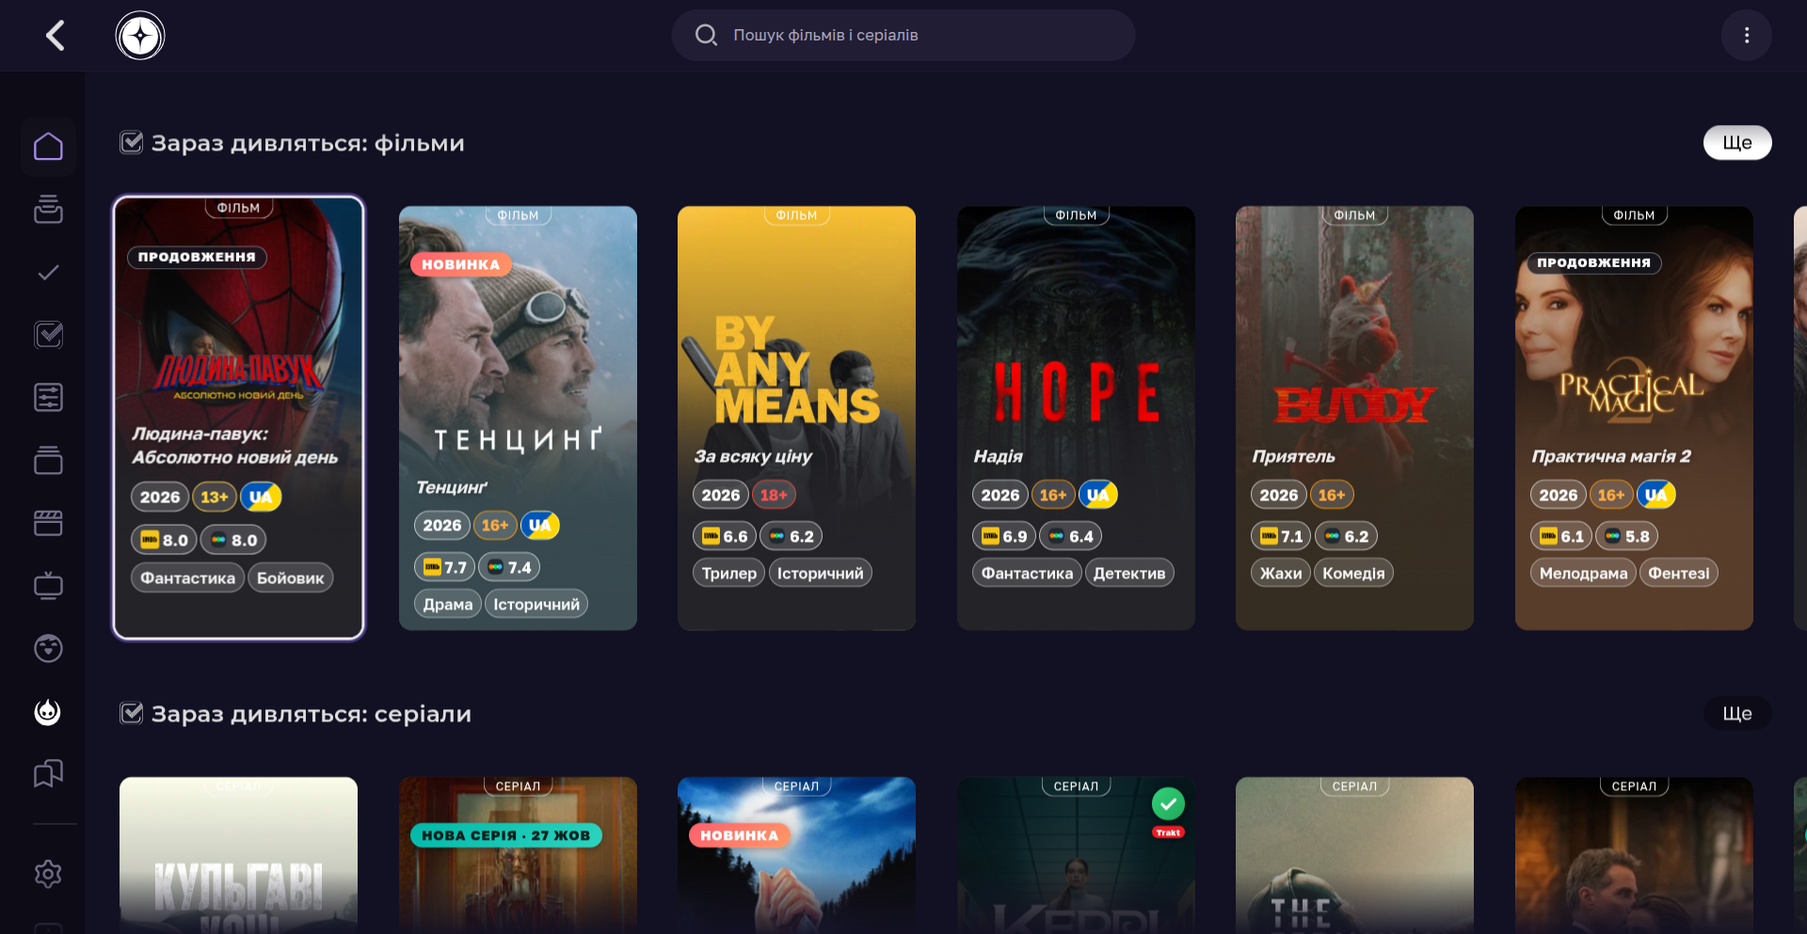
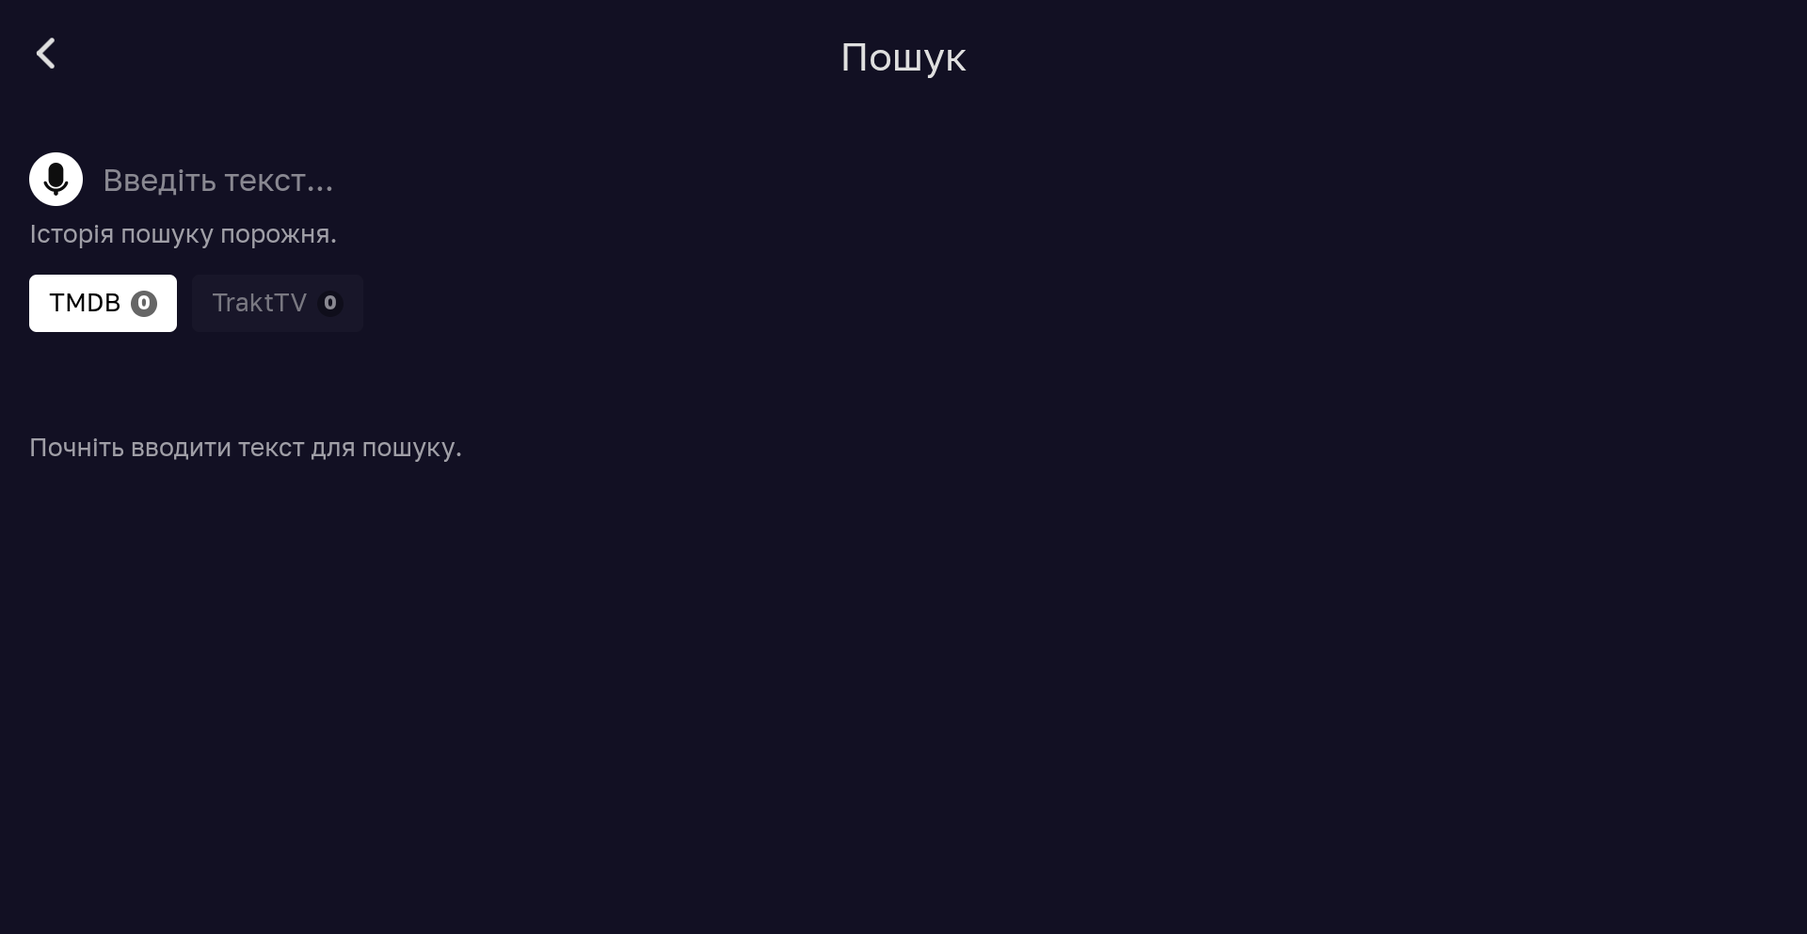
style: unify design tokens and native auxiliary screens

diff --git a/ui/stremio-hybrid.js b/ui/stremio-hybrid.js
@@ -4,36 +4,36 @@
     if (window.StremioHybrid) return;
     var style, ready = false, destroyed = false, waiting = false, watching = false, moreButton = null, menuOpen = false, searchNode = null, searchReturn = false, settingsRail = null, settingsFrame = 0, settingsParameter = null, settingsCategory = 'interface', settingsLeftConsumed = false, searchSources = null, searchRoots = [];
     var css = `
-body.stremio-hybrid { --sh-bg:#121023; --sh-panel:#211d35; --sh-accent:#9775fa; --sh-muted:#aba7bd; --sh-rail:#0c0b16; --sh-text:#f0eef8; --sh-border:#ffffff16; --sh-radius:.7em; --sh-pill:2em; --sh-gap:1.1em; --sh-speed:160ms; background:#121023 !important; color:#f0eef8; }
+body.stremio-hybrid { --sh-bg:#121023; --sh-panel:#211d35; --sh-accent:#9775fa; --sh-muted:#aba7bd; --sh-rail:#0c0b16; --sh-text:#f0eef8; --sh-border:#ffffff16; --sh-radius:.7em; --sh-pill:2em; --sh-gap:1.1em; --sh-speed:160ms; --sh-focus:#7960c9; --sh-focus-soft:#3e315b; --sh-header:#151127; --sh-panel-raised:#29233e; --sh-accent-soft:#b79bff; --sh-focus-text:#e9e0ff; --sh-focus-ink:#201536; --sh-inactive:#726d86; --sh-secondary:#d0cadf; --sh-inset:1.8em; --sh-ease:ease-out; background:#121023 !important; color:#f0eef8; }
 body.stremio-hybrid .background { opacity:.12 !important; }
-body.stremio-hybrid .head { background:#151127 !important; border-bottom:1px solid #ffffff09; }
-body.stremio-hybrid .head__body { padding-left:1.8em; padding-right:1.8em; }
+body.stremio-hybrid .head { background:var(--sh-header) !important; border-bottom:1px solid #ffffff09; }
+body.stremio-hybrid .head__body { padding-left:1.8em; padding-right:var(--sh-inset); }
 body.stremio-hybrid .head__action { border-radius:50%; }
-body.stremio-hybrid .head__action.focus { background:#7960c9 !important; color:white !important; }
-body.stremio-hybrid .wrap { background:#121023; }
+body.stremio-hybrid .head__action.focus { background:var(--sh-focus) !important; color:white !important; }
+body.stremio-hybrid .wrap { background:var(--sh-bg); }
 body.stremio-hybrid .wrap__left { background:var(--sh-rail) !important; visibility:visible !important; }
-body.stremio-hybrid .menu__item { margin:.15em .45em; border-radius:.7em !important; min-height:2.8em; color:#726d86; }
-body.stremio-hybrid .menu__item.focus, body.stremio-hybrid .menu__item.traverse { background:#29233e !important; color:#b79bff !important; }
+body.stremio-hybrid .menu__item { margin:.15em .45em; border-radius:var(--sh-radius) !important; min-height:2.8em; color:var(--sh-inactive); }
+body.stremio-hybrid .menu__item.focus, body.stremio-hybrid .menu__item.traverse { background:var(--sh-panel-raised) !important; color:var(--sh-accent-soft) !important; }
 body.stremio-hybrid .menu__ico { opacity:1; }
 body.stremio-hybrid .items-line { padding-bottom:2.4em; }
 body.stremio-hybrid .items-line__head { padding:0 1.8em 1em; }
 body.stremio-hybrid .items-line__title { font-size:1.2em; font-weight:500; letter-spacing:.01em; }
-body.stremio-hybrid .items-line .scroll__content { padding-left:1.8em; padding-right:1.8em; }
-body.stremio-hybrid .items-line:not(.vinyl-line) .scroll__body { gap:1.1em; }
-body.stremio-hybrid .card { transition:transform 160ms ease-out !important; backface-visibility:visible !important; transform:none; }
+body.stremio-hybrid .items-line .scroll__content { padding-left:1.8em; padding-right:var(--sh-inset); }
+body.stremio-hybrid .items-line:not(.vinyl-line) .scroll__body { gap:var(--sh-gap); }
+body.stremio-hybrid .card { transition:transform var(--sh-speed) var(--sh-ease) !important; backface-visibility:visible !important; transform:none; }
 body.stremio-hybrid .ydesign-card, body.stremio-hybrid .ydesign-card.focus { animation:none !important; }
 body.stremio-hybrid .card.focus { transform:scale(1.035) !important; z-index:20; }
-body.stremio-hybrid .card .card__view { border-radius:.65em !important; transition:none !important; }
-body.stremio-hybrid .card.focus .card__view { box-shadow:0 0 0 .14em #f0eef8,0 0 0 .27em #9775fa66 !important; }
+body.stremio-hybrid .card .card__view { border-radius:var(--sh-radius) !important; transition:none !important; }
+body.stremio-hybrid .card.focus .card__view { box-shadow:0 0 0 .14em var(--sh-text),0 0 0 .27em var(--sh-accent)66 !important; }
 body.stremio-hybrid .ydesign-card.focus::after, body.stremio-hybrid .ydesign-card .ydesign-content-layer::after { display:none !important; }
 body.stremio-hybrid .ydesign-card .card__view::before { animation:none !important; }
 body.stremio-hybrid .ydesign-badge, body.stremio-hybrid .ydesign-genre-badge, body.stremio-hybrid .ydesign-rating, body.stremio-hybrid .ydesign-series-pill, body.stremio-hybrid .ydesign-card-notch { backdrop-filter:none !important; -webkit-backdrop-filter:none !important; }
-body.stremio-hybrid .ydesign-content-layer, body.stremio-hybrid .ydesign-desc-under { transition:opacity 160ms ease-out !important; }
-body.stremio-hybrid .selectbox__content, body.stremio-hybrid .settings__content, body.stremio-hybrid .modal__content { background:#211d35 !important; border-radius:1em; backdrop-filter:none !important; -webkit-backdrop-filter:none !important; }
-body.stremio-hybrid .selectbox-item { border-radius:.65em; }
+body.stremio-hybrid .ydesign-content-layer, body.stremio-hybrid .ydesign-desc-under { transition:opacity var(--sh-speed) var(--sh-ease) !important; }
+body.stremio-hybrid .selectbox__content, body.stremio-hybrid .settings__content, body.stremio-hybrid .modal__content { background:var(--sh-panel) !important; border-radius:1em; backdrop-filter:none !important; -webkit-backdrop-filter:none !important; }
+body.stremio-hybrid .selectbox-item { border-radius:var(--sh-radius); }
 body.stremio-hybrid .mapping--grid { padding:.6em .8em; }
 body.stremio-hybrid .mapping--grid .card { padding:0 .65em 1.8em; }
-body.stremio-hybrid .selectbox-item.focus, body.stremio-hybrid .settings-param.focus, body.stremio-hybrid .settings-folder.focus { background:#7960c9 !important; color:white !important; border-radius:.65em; }
+body.stremio-hybrid .selectbox-item.focus, body.stremio-hybrid .settings-param.focus, body.stremio-hybrid .settings-folder.focus { background:var(--sh-focus) !important; color:white !important; border-radius:var(--sh-radius); }
 /* Native search and native action nodes are retained. Only known secondary actions move into Select. */
 body.stremio-hybrid .head__body { gap:1em; }
 body.stremio-hybrid .head__title { min-width:0; overflow:hidden; text-overflow:ellipsis; white-space:nowrap; font-size:1em; opacity:.7; max-width:26vw; }
@@ -44,7 +44,7 @@ body.stremio-hybrid .open--search { width:clamp(12em,29vw,24em) !important; heig
 body.stremio-hybrid .open--search { position:absolute; left:50%; transform:translateX(-50%) !important; }
 body.stremio-hybrid .open--search svg { width:1.2em; height:1.2em; flex-shrink:0; opacity:.75; }
 body.stremio-hybrid .open--search::after { content:'Пошук фільмів і серіалів'; font-size:.8em; color:var(--sh-muted); white-space:nowrap; }
-body.stremio-hybrid .open--search.focus { box-shadow:0 0 0 .1em #cab7ff; }
+body.stremio-hybrid .open--search.focus { box-shadow:0 0 0 .1em var(--sh-accent-soft); }
 body.stremio-hybrid .open--search.focus::after { color:white; }
 body.stremio-hybrid .sh-head-more { width:2.65em; height:2.65em; margin:0 !important; background:var(--sh-panel); display:flex; justify-content:center; align-items:center; }
 body.stremio-hybrid .sh-head-more svg { width:1.1em; height:1.1em; }
@@ -59,65 +59,65 @@ body.stremio-hybrid .main-search .simple-keyboard-input.focus { border-color:var
 body.stremio-hybrid .main-search .search__sources { gap:.7em; margin:1.2em 0; }
 body.stremio-hybrid .main-search .search-source { border-radius:var(--sh-pill); background:var(--sh-panel); color:var(--sh-muted); padding:.8em 1.2em; }
 body.stremio-hybrid .main-search .search-source.active { color:var(--sh-text); box-shadow:inset 0 -.12em var(--sh-accent); }
-body.stremio-hybrid .main-search .search-source.focus { background:#3e315b; color:white; }
+body.stremio-hybrid .main-search .search-source.focus { background:var(--sh-focus-soft); color:white; }
 body.stremio-hybrid .main-search .search-source__count { background:#ffffff0d; border-radius:var(--sh-pill); }
 body.stremio-hybrid .search-empty, body.stremio-hybrid .search-looking, body.stremio-hybrid .empty { color:var(--sh-muted); }
 body.stremio-hybrid .main-search .items-line__title { font-size:1.15em; }
 body.stremio-hybrid .main-search .card.ydesign-vertical { width:13.2vw !important; }
 body.stremio-hybrid .sh-search-grid { width:13.2vw; min-height:12em; flex:0 0 auto; display:flex; align-items:center; justify-content:center; padding:1em; text-align:center; background:var(--sh-panel); border:1px solid var(--sh-border); border-radius:var(--sh-radius); color:var(--sh-muted); }
-body.stremio-hybrid .sh-search-grid.focus { color:white; background:#3e315b; box-shadow:0 0 0 .12em var(--sh-accent); }
+body.stremio-hybrid .sh-search-grid.focus { color:white; background:var(--sh-focus-soft); box-shadow:0 0 0 .12em var(--sh-accent); }
 body.stremio-hybrid .filter__item, body.stremio-hybrid .filter--filter, body.stremio-hybrid .filter--sort { border-radius:var(--sh-pill); background:var(--sh-panel); }
-body.stremio-hybrid .filter__item.focus, body.stremio-hybrid .filter--filter.focus, body.stremio-hybrid .filter--sort.focus { background:#3e315b; box-shadow:0 0 0 .1em var(--sh-accent); }
+body.stremio-hybrid .filter__item.focus, body.stremio-hybrid .filter--filter.focus, body.stremio-hybrid .filter--sort.focus { background:var(--sh-focus-soft); box-shadow:0 0 0 .1em var(--sh-accent); }
 /* A full Settings screen; the right pane remains Lampa's original component. */
 body.stremio-hybrid.settings--open .settings { position:fixed; inset:0; width:100vw; height:100vh; }
 body.stremio-hybrid.settings--open .settings__layer { display:none; }
-body.stremio-hybrid.settings--open .settings__content { width:100% !important; max-width:none; height:100vh !important; background:var(--sh-bg) !important; pointer-events:auto; display:grid; grid-template-columns:minmax(13em,23%) minmax(0,1fr); grid-template-rows:auto minmax(0,1fr); gap:1em 1.8em; padding:1.8em; box-sizing:border-box; border-radius:0; }
+body.stremio-hybrid.settings--open .settings__content { width:100% !important; max-width:none; height:100vh !important; background:var(--sh-bg) !important; pointer-events:auto; display:grid; grid-template-columns:minmax(13em,23%) minmax(0,1fr); grid-template-rows:auto minmax(0,1fr); gap:1em 1.8em; padding:var(--sh-inset); box-sizing:border-box; border-radius:0; }
 body.stremio-hybrid.settings--open .settings__head { grid-column:1 / -1; padding:0 0 .8em; }
 body.stremio-hybrid.settings--open .settings__body { grid-column:2; grid-row:2; min-height:0; min-width:0; overflow:hidden; background:var(--sh-panel); padding:1em; border-radius:var(--sh-radius); }
 body.stremio-hybrid.settings--open .settings__body > .scroll { height:100% !important; max-height:100% !important; }
 body.stremio-hybrid .sh-settings-rail { grid-column:1; grid-row:2; min-height:0; overflow-y:auto; overscroll-behavior:contain; padding:.2em .5em .8em .1em; }
 body.stremio-hybrid .sh-settings-category { color:var(--sh-muted); padding:.85em 1em; margin-bottom:.3em; border-radius:var(--sh-pill); font-size:.95em; cursor:pointer; }
 body.stremio-hybrid .sh-settings-category[aria-current="page"] { background:#ffffff09; color:var(--sh-text); }
-body.stremio-hybrid .sh-settings-category.focus { color:white; background:#3e315b; box-shadow:inset .18em 0 var(--sh-accent); }
+body.stremio-hybrid .sh-settings-category.focus { color:white; background:var(--sh-focus-soft); box-shadow:inset .18em 0 var(--sh-accent); }
 body.stremio-hybrid .settings-param { padding:1em; margin-bottom:.25em; }
 body.stremio-hybrid .settings-param__name { font-size:1em; }
 body.stremio-hybrid .settings-param__value { font-size:.85em; }
 /* Keep Cardify's composition and provider actions; improve readable hierarchy. */
 /* Reveal the existing native poster and recompose Cardify without replacing its DOM. */
 body.stremio-hybrid .cardify .full-start-new__body { height:auto !important; min-height:36em; padding-top:2em; align-items:flex-start !important; }
-body.stremio-hybrid .cardify .full-start-new__left { display:block !important; width:12vw; flex:0 0 12vw; max-width:12em; margin-right:1.8em; align-self:flex-start; }
+body.stremio-hybrid .cardify .full-start-new__left { display:block !important; width:12vw; flex:0 0 12vw; max-width:12em; margin-right:var(--sh-inset); align-self:flex-start; }
 body.stremio-hybrid .cardify .full-start-new__poster { border-radius:var(--sh-radius); box-shadow:0 .5em 1.5em #0005; overflow:hidden; }
 body.stremio-hybrid .cardify .full-start-new__right { flex:1; min-width:0; width:auto; align-items:flex-start !important; }
 body.stremio-hybrid .cardify .cardify__left { max-width:58%; padding-right:0; }
 body.stremio-hybrid .cardify .full-start-new__title { font-size:2.1em !important; margin-top:0 !important; }
 body.stremio-hybrid .cardify .custom-ghost-main { top:2em !important; }
-body.stremio-hybrid .cardify .cardify__right-box { position:absolute; bottom:1em; right:1.8em; }
+body.stremio-hybrid .cardify .cardify__right-box { position:absolute; bottom:1em; right:var(--sh-inset); }
 body.stremio-hybrid .full-episode { border-radius:var(--sh-radius); background:var(--sh-panel); padding:.7em; }
 body.stremio-hybrid .full-episode__img { border-radius:.45em; }
 body.stremio-hybrid .full-episode.focus { box-shadow:0 0 0 .12em var(--sh-accent); }
 body.stremio-hybrid .full-start__background { opacity:.48 !important; filter:none !important; }
-body.stremio-hybrid .cardify-effects-overlay { width:100% !important; background:linear-gradient(90deg,rgba(18,16,35,.76),rgba(18,16,35,.16)) !important; transition:opacity 160ms ease-out !important; }
+body.stremio-hybrid .cardify-effects-overlay { width:100% !important; background:linear-gradient(90deg,rgba(18,16,35,.76),rgba(18,16,35,.16)) !important; transition:opacity var(--sh-speed) var(--sh-ease) !important; }
 body.stremio-hybrid .full-start-new__title { font-size:2.4em !important; line-height:1.16 !important; font-weight:600; max-width:26em; white-space:normal !important; display:block !important; overflow:visible !important; text-overflow:clip; overflow-wrap:break-word; -webkit-line-clamp:unset !important; margin:.3em 0 .5em !important; }
-body.stremio-hybrid .full-start-new__head { color:#d0cadf; font-size:.95em; line-height:1.4; }
+body.stremio-hybrid .full-start-new__head { color:var(--sh-secondary); font-size:.95em; line-height:1.4; }
 body.stremio-hybrid .ifx-original-title { opacity:.7; font-weight:400; }
 body.stremio-hybrid .cardify__left { min-width:0; max-width:68%; padding-right:1.2em; }
 body.stremio-hybrid .full-start-new__right { gap:1em; }
 body.stremio-hybrid .full-start-new__rate-line { gap:.6em; }
-body.stremio-hybrid .full-start__button { border-radius:2em !important; background:#29233e; border:1px solid #ffffff16; min-height:2.8em; animation:none !important; opacity:1 !important; transition:transform 160ms ease-out,opacity 160ms ease-out !important; backdrop-filter:none !important; -webkit-backdrop-filter:none !important; }
-body.stremio-hybrid .full-start__button.focus { background:#e9e0ff !important; color:#201536 !important; box-shadow:0 0 0 .13em #9775fa !important; transform:translateY(-.08em); }
+body.stremio-hybrid .full-start__button { border-radius:var(--sh-pill) !important; background:var(--sh-panel-raised); border:1px solid var(--sh-border); min-height:2.8em; animation:none !important; opacity:1 !important; transition:transform var(--sh-speed) var(--sh-ease),opacity var(--sh-speed) var(--sh-ease) !important; backdrop-filter:none !important; -webkit-backdrop-filter:none !important; }
+body.stremio-hybrid .full-start__button.focus { background:var(--sh-focus-text) !important; color:var(--sh-focus-ink) !important; box-shadow:0 0 0 .13em var(--sh-accent) !important; transform:translateY(-.08em); }
 body.stremio-hybrid .custom-ghost-main { width:31% !important; padding:1.1em !important; background:rgba(24,21,43,.94); border:1px solid #ffffff12; border-radius:1em; z-index:1 !important; }
 body.stremio-hybrid .custom-ghost-main .full-descr__text { text-align:left !important; font-size:1em !important; line-height:1.55 !important; max-height:15.5em !important; }
-body.stremio-hybrid .full-descr__text.focus { outline:.12em solid #b79bff; outline-offset:.35em; border-radius:.3em; }
-body.stremio-hybrid .full-descr { padding-left:1.8em; padding-right:1.8em; }
+body.stremio-hybrid .full-descr__text.focus { outline:.12em solid var(--sh-accent-soft); outline-offset:.35em; border-radius:.3em; }
+body.stremio-hybrid .full-descr { padding-left:1.8em; padding-right:var(--sh-inset); }
 body.stremio-hybrid .full-descr__info-name { color:#aaa2be; }
-body.stremio-hybrid .full-descr__tag { border-radius:2em; background:#29233e; }
-body.stremio-hybrid .full-descr__tag.focus, body.stremio-hybrid .simple-button.focus { background:#7960c9 !important; color:white !important; }
-body.stremio-hybrid .full-person__photo { border-radius:.7em; }
+body.stremio-hybrid .full-descr__tag { border-radius:var(--sh-pill); background:var(--sh-panel-raised); }
+body.stremio-hybrid .full-descr__tag.focus, body.stremio-hybrid .simple-button.focus { background:var(--sh-focus) !important; color:white !important; }
+body.stremio-hybrid .full-person__photo { border-radius:var(--sh-radius); }
 body.stremio-hybrid .settings__title, body.stremio-hybrid .selectbox__title { font-size:1.6em; font-weight:500; letter-spacing:.01em; }
-body.stremio-hybrid .settings-param, body.stremio-hybrid .settings-folder { border-radius:.65em; border:1px solid transparent; }
-body.stremio-hybrid .settings-param__descr, body.stremio-hybrid .settings-param__value { color:#bbb3ce; }
-body.stremio-hybrid .settings-param.focus .settings-param__descr, body.stremio-hybrid .settings-param.focus .settings-param__value { color:#f4eeff; }
-body.stremio-hybrid .settings-param.focus, body.stremio-hybrid .settings-folder.focus, body.stremio-hybrid .selectbox-item.focus { box-shadow:inset .18em 0 #d2bdff; }
+body.stremio-hybrid .settings-param, body.stremio-hybrid .settings-folder { border-radius:var(--sh-radius); border:1px solid transparent; }
+body.stremio-hybrid .settings-param__descr, body.stremio-hybrid .settings-param__value { color:var(--sh-muted); }
+body.stremio-hybrid .settings-param.focus .settings-param__descr, body.stremio-hybrid .settings-param.focus .settings-param__value { color:var(--sh-text); }
+body.stremio-hybrid .settings-param.focus, body.stremio-hybrid .settings-folder.focus, body.stremio-hybrid .selectbox-item.focus { box-shadow:inset .18em 0 var(--sh-accent-soft); }
 body.stremio-hybrid .menu__item, body.stremio-hybrid .head__action, body.stremio-hybrid .selectbox-item, body.stremio-hybrid .settings-param, body.stremio-hybrid .settings-folder { transition:transform 140ms ease-out,opacity 140ms ease-out !important; }
 @media(min-width:769px) {
  body.stremio-hybrid .wrap__content { flex:1; min-width:0; width:calc(100% - 4.4em) !important; }
@@ -144,6 +144,20 @@ body.stremio-hybrid .menu__item, body.stremio-hybrid .head__action, body.stremio
  body.stremio-hybrid .full-start__button, body.stremio-hybrid .menu__item, body.stremio-hybrid .head__action, body.stremio-hybrid .selectbox-item, body.stremio-hybrid .settings-param, body.stremio-hybrid .settings-folder, body.stremio-hybrid .cardify-effects-overlay { transition:none !important; }
  body.stremio-hybrid .card.focus, body.stremio-hybrid .full-start__button.focus { transform:none !important; }
 }
+
+/* Shared auxiliary surfaces; native modal stacking and callbacks stay intact. */
+body.stremio-hybrid .lang { background:var(--sh-bg); color:var(--sh-text); }
+body.stremio-hybrid .lang__body { background:var(--sh-bg); }
+body.stremio-hybrid .lang__selector-item { border-radius:var(--sh-pill); color:var(--sh-muted); }
+body.stremio-hybrid .lang__selector-item.focus { background:var(--sh-focus-soft); color:var(--sh-text); box-shadow:inset .18em 0 var(--sh-accent); }
+body.stremio-hybrid .modal__title { font-size:1.4em; font-weight:500; }
+body.stremio-hybrid .modal__button, body.stremio-hybrid .search-history-key { background:var(--sh-panel-raised); border:1px solid var(--sh-border); border-radius:var(--sh-pill); }
+body.stremio-hybrid .modal__button.focus, body.stremio-hybrid .search-history-key.focus, body.stremio-hybrid .simple-keyboard-mic.focus { background:var(--sh-focus-soft); color:var(--sh-text); box-shadow:0 0 0 .1em var(--sh-accent); }
+body.stremio-hybrid .settings-input__content, body.stremio-hybrid .noty__body, body.stremio-hybrid .notice { background:var(--sh-panel); color:var(--sh-text); border-radius:var(--sh-radius); border:1px solid var(--sh-border); backdrop-filter:none !important; -webkit-backdrop-filter:none !important; }
+body.stremio-hybrid .notice.focus { box-shadow:0 0 0 .12em var(--sh-accent); }
+body.stremio-hybrid .broadcast__text, body.stremio-hybrid .notice__time, body.stremio-hybrid .notice__author-text { color:var(--sh-muted); }
+body.stremio-hybrid .broadcast__scan > div { background:var(--sh-accent); }
+body.stremio-hybrid .activity__loader { border-top-color:var(--sh-accent); }
 `;
     function actionLabel(node) {
         var map = {'notice--icon':'Сповіщення', 'open--settings':'Налаштування', 'open--profile':'Профіль', 'full--screen':'Повний екран', 'open--broadcast':'Трансляція', 'trakt-head-action':'Trakt · статус та списки'};

diff --git a/CODEX_PROGRESS.md b/CODEX_PROGRESS.md
@@ -124,3 +124,9 @@
 - Search sources/finded subscriptions і тимчасові grid actions прибираються при Search.close/disable/destroy, у т.ч. неактивні кешовані roots. Додаткових polling/observer немає.
 - Наступне P4/P5: завершити спільні змінні й допоміжні вікна, native reload, stress очищення й пакет 2.0.0.
 - Коміт: feat: unify native search and route results into the native catalog grid.
+
+## Phase 2 / P4 — спільні токени та допоміжні екрани: PASS
+- Кольори поверхонь/фокусу/тексту, радіуси, відступи й швидкість переходів винесені у --sh-*; native language, modal, notice, select, loading використовують спільну палітру. CSS ізольовано класом теми; blur/backdrop-filter не додано.
+- PASS p4-report.json: спільні токени, фактичний native Modal, native language picker без зміни мови, reduced-motion. Скриншоти p4-modal.png/p4-language.png. node --check PASS.
+- Наступне P5: lifecycle стрес, штатне завантаження 2.0.0 без ін’єкцій, оновлення пакета/інструкції. Фізичний Google TV лишається неперевіреним.
+- Коміт: style: unify design tokens and native auxiliary screens.
